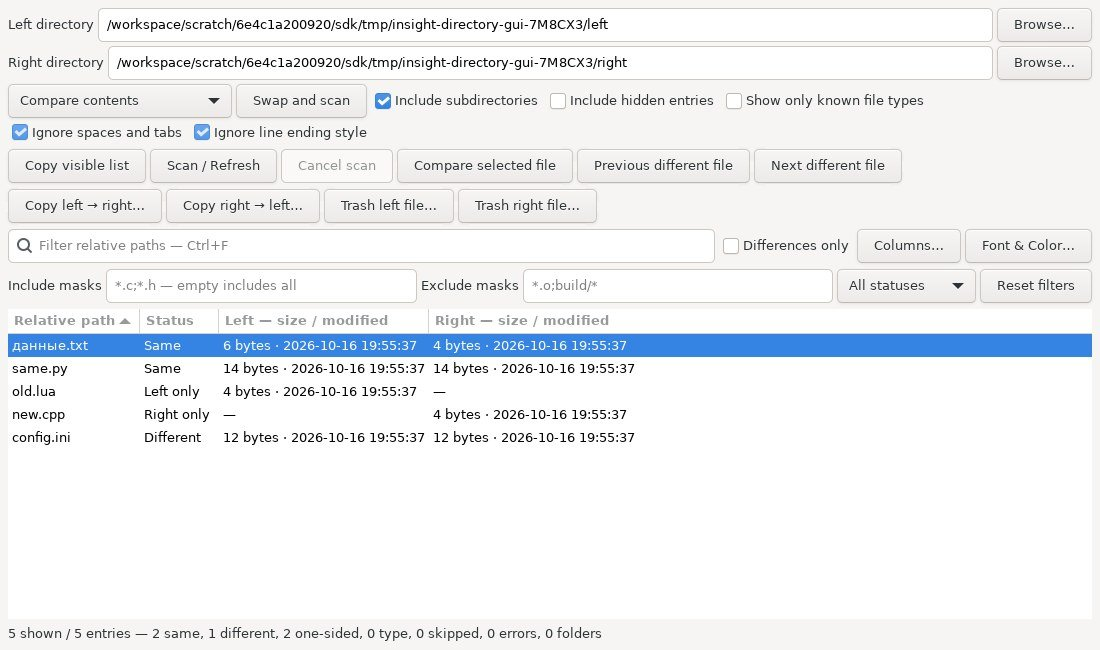
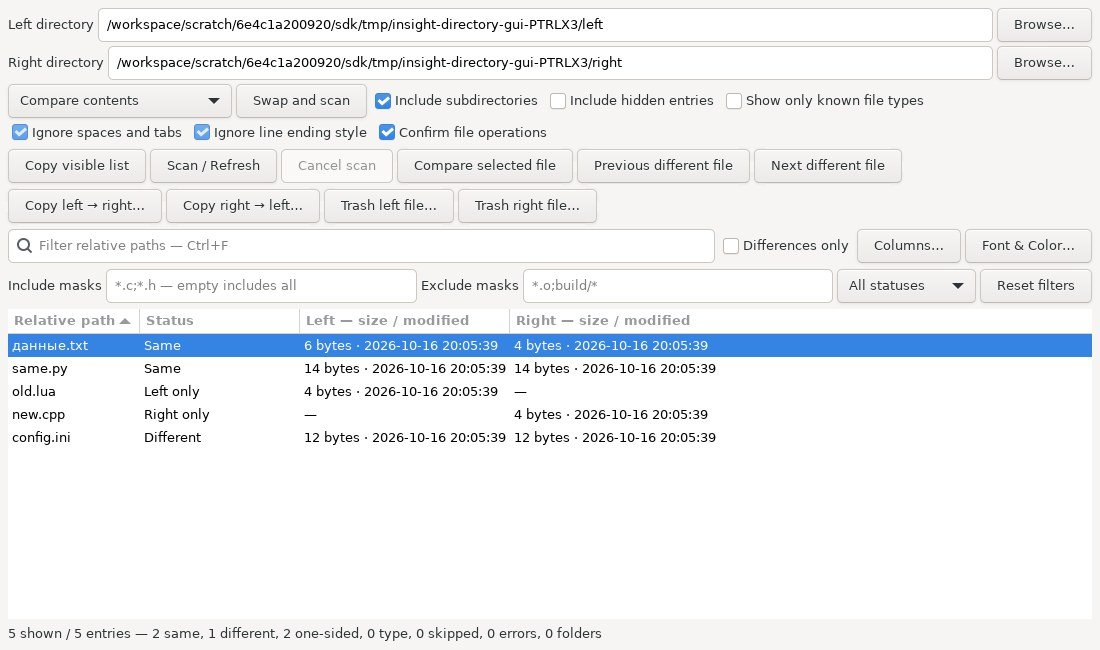
Remember directory file-operation confirmation policy

diff --git a/insight/tests/directory_compare_gui_test.c b/insight/tests/directory_compare_gui_test.c
@@ -60,7 +60,7 @@ int main(int argc,char **argv) {
  g_assert_cmpint(g_mkdir(left,0700),==,0);g_assert_cmpint(g_mkdir(right,0700),==,0);g_assert_cmpint(g_mkdir(empty,0700),==,0);
  put(left,"config.ini","port = 3000\n");put(right,"config.ini","port = 8080\n");put(left,"same.py","print('same')\n");put(right,"same.py","print('same')\n");put(left,"old.lua","old\n");put(right,"new.cpp","new\n");put(left,"данные.txt","я b\r\n");put(right,"данные.txt","яb\n");
  insight_directory_set_types_provider(known_types);insight_directory_set_open_guard(operation_path_open);
- Directory *d=directory_new(NULL);flush();start(NULL,d);g_assert_false(d->busy);g_assert_false(gtk_widget_get_sensitive(d->open));
+ Directory *d=directory_new(NULL);g_assert_true(gtk_toggle_button_get_active(GTK_TOGGLE_BUTTON(d->confirm)));flush();start(NULL,d);g_assert_false(d->busy);g_assert_false(gtk_widget_get_sensitive(d->open));
  gtk_entry_set_text(GTK_ENTRY(d->paths[0]),left);gtk_entry_set_text(GTK_ENTRY(d->paths[1]),right);start(NULL,d);wait_scan(d);
  g_assert_cmpuint(d->rows->len,==,5);g_assert_true(select_path(d,"config.ini"));g_assert_true(gtk_widget_get_sensitive(d->open));open_pair(NULL,d);g_assert_true(g_str_has_suffix(opened[0],"config.ini"));g_assert_cmpuint(opened_flags,==,0);
  gtk_entry_set_text(GTK_ENTRY(d->paths[0]),empty);open_pair(NULL,d);gchar *expected=g_build_filename(left,"config.ini",NULL);g_assert_cmpstr(opened[0],==,expected);g_free(expected);gtk_entry_set_text(GTK_ENTRY(d->paths[0]),left);
@@ -100,6 +100,8 @@ int main(int argc,char **argv) {
  start(NULL,d);wait_scan(d);g_assert_true(select_path(d,"copy.dat"));put(right,"copy.dat","external destination change");expected_destination=copy_right;run_action(d,0,GTK_RESPONSE_ACCEPT);g_assert_true(d->stale);g_assert_true(g_file_get_contents(copy_right,&bytes,NULL,NULL));g_assert_cmpstr(bytes,==,"external destination change");g_free(bytes);
  start(NULL,d);wait_scan(d);g_assert_true(select_path(d,"copy.dat"));expected_destination=NULL;run_action(d,INSIGHT_DIR_TRASH_L,GTK_RESPONSE_CANCEL);g_assert_false(d->stale);g_assert_true(g_file_test(copy_left,G_FILE_TEST_EXISTS));
  expected_destination=copy_right;block_after_confirmation=copy_left;run_action(d,0,GTK_RESPONSE_ACCEPT);g_assert_false(d->stale);g_assert_false(d->busy);blocked_path=NULL;block_after_confirmation=NULL;
+ gtk_toggle_button_set_active(GTK_TOGGLE_BUTTON(d->confirm),FALSE);file_action(d->actions[0],d);wait_scan(d);g_assert_true(d->stale);g_assert_true(g_file_get_contents(copy_right,&bytes,NULL,NULL));g_assert_cmpstr(bytes,==,"right bytes");g_free(bytes);
+ put(left,"quick-trash.dat","own trash fixture");start(NULL,d);wait_scan(d);g_assert_true(select_path(d,"quick-trash.dat"));file_action(d->actions[2],d);wait_scan(d);g_assert_true(d->stale);gchar *quick=g_build_filename(left,"quick-trash.dat",NULL);if(g_file_test(quick,G_FILE_TEST_EXISTS)) g_remove(quick);g_free(quick);gtk_toggle_button_set_active(GTK_TOGGLE_BUTTON(d->confirm),TRUE);start(NULL,d);wait_scan(d);g_assert_true(select_path(d,"copy.dat"));
  Directory *closing=directory_new(NULL);gtk_entry_set_text(GTK_ENTRY(closing->paths[0]),left);gtk_entry_set_text(GTK_ENTRY(closing->paths[1]),right);start(NULL,closing);wait_scan(closing);g_assert_true(select_path(closing,"copy.dat"));
  gboolean operation_closed=FALSE;g_object_weak_ref(G_OBJECT(closing->window),finalized,&operation_closed);g_idle_add(operation_response,GINT_TO_POINTER(GTK_RESPONSE_ACCEPT));file_action(closing->actions[0],closing);gtk_widget_destroy(closing->window);
  gint64 close_deadline=g_get_monotonic_time()+10*G_TIME_SPAN_SECOND;while(!operation_closed && g_get_monotonic_time()<close_deadline) { flush();g_usleep(1000); }g_assert_true(operation_closed);
@@ -126,16 +128,16 @@ int main(int argc,char **argv) {
  g_idle_add(appearance_response,GINT_TO_POINTER(GTK_RESPONSE_CANCEL));gtk_button_clicked(GTK_BUTTON(style_button));
  GKeyFile *settings=g_key_file_new();insight_directory_write(settings);g_assert_false(g_key_file_get_boolean(settings,style_group,"enabled",NULL));
  g_idle_add(appearance_response,GINT_TO_POINTER(GTK_RESPONSE_APPLY));gtk_button_clicked(GTK_BUTTON(style_button));insight_directory_write(settings);g_assert_true(g_key_file_get_boolean(settings,style_group,"enabled",NULL));
- gtk_entry_set_text(GTK_ENTRY(d->include),"*.ini;*.cpp");gtk_entry_set_text(GTK_ENTRY(d->exclude),"backup*");gtk_combo_box_set_active(GTK_COMBO_BOX(d->method),INSIGHT_DIR_SIZE_DATE);gtk_toggle_button_set_active(GTK_TOGGLE_BUTTON(d->known),TRUE);
+ gtk_entry_set_text(GTK_ENTRY(d->include),"*.ini;*.cpp");gtk_entry_set_text(GTK_ENTRY(d->exclude),"backup*");gtk_combo_box_set_active(GTK_COMBO_BOX(d->method),INSIGHT_DIR_SIZE_DATE);gtk_toggle_button_set_active(GTK_TOGGLE_BUTTON(d->known),TRUE);gtk_toggle_button_set_active(GTK_TOGGLE_BUTTON(d->confirm),FALSE);
  gtk_tree_view_column_set_visible(gtk_tree_view_get_column(GTK_TREE_VIEW(d->view),3),FALSE);insight_directory_write(settings);
  gboolean gone=FALSE;g_object_weak_ref(G_OBJECT(d->window),finalized,&gone);start(NULL,d);gtk_widget_destroy(d->window);
  gint64 until=g_get_monotonic_time()+10*G_TIME_SPAN_SECOND;while(!gone && g_get_monotonic_time()<until) { flush();g_usleep(1000); }g_assert_true(gone);
- insight_directory_read(settings);Directory *restored=directory_new(NULL);flush();g_assert_false(restored->busy);g_assert_null(restored->rows);
+ insight_directory_read(settings);Directory *restored=directory_new(NULL);flush();g_assert_false(restored->busy);g_assert_null(restored->rows);g_assert_false(gtk_toggle_button_get_active(GTK_TOGGLE_BUTTON(restored->confirm)));
  g_assert_cmpstr(gtk_entry_get_text(GTK_ENTRY(restored->include)),==,"*.ini;*.cpp");g_assert_cmpstr(gtk_entry_get_text(GTK_ENTRY(restored->paths[0])),==,empty);g_assert_cmpint(gtk_combo_box_get_active(GTK_COMBO_BOX(restored->method)),==,INSIGHT_DIR_SIZE_DATE);g_assert_true(gtk_toggle_button_get_active(GTK_TOGGLE_BUTTON(restored->known)));g_assert_false(gtk_tree_view_column_get_visible(gtk_tree_view_get_column(GTK_TREE_VIEW(restored->view),3)));
  GKeyFile *again=g_key_file_new();insight_directory_write(again);g_assert_true(g_key_file_get_boolean(again,style_group,"enabled",NULL));gchar *font=g_key_file_get_string(again,style_group,"font",NULL);g_assert_cmpstr(font,==,"Monospace 12");g_free(font);
  Directory *second=directory_new(NULL);gtk_entry_set_text(GTK_ENTRY(second->include),"*.py");g_assert_cmpstr(gtk_entry_get_text(GTK_ENTRY(restored->include)),==,"*.ini;*.cpp");insight_directory_write(again);gchar *mask=g_key_file_get_string(again,options_group,"include",NULL);g_assert_cmpstr(mask,==,"*.py");g_free(mask);gtk_widget_destroy(second->window);gtk_widget_destroy(restored->window);
- g_key_file_set_integer(settings,options_group,"method",999);g_key_file_set_integer(settings,options_group,"status",-8);g_key_file_set_value(settings,options_group,"recursive","broken");g_key_file_set_boolean(settings,options_group,"column-0",FALSE);g_key_file_set_integer(settings,options_group,"width",99999);g_key_file_set_string(settings,style_group,"font","Sans 999");
- insight_directory_read(settings);insight_directory_set_types_provider(NULL);restored=directory_new(NULL);g_assert_false(restored->busy);g_assert_cmpint(gtk_combo_box_get_active(GTK_COMBO_BOX(restored->method)),==,0);g_assert_cmpint(gtk_combo_box_get_active(GTK_COMBO_BOX(restored->status_filter)),==,0);g_assert_true(gtk_toggle_button_get_active(GTK_TOGGLE_BUTTON(restored->recursive)));g_assert_false(gtk_toggle_button_get_active(GTK_TOGGLE_BUTTON(restored->known)));g_assert_true(gtk_tree_view_column_get_visible(gtk_tree_view_get_column(GTK_TREE_VIEW(restored->view),0)));gtk_widget_destroy(restored->window);
+ g_key_file_set_integer(settings,options_group,"method",999);g_key_file_set_integer(settings,options_group,"status",-8);g_key_file_set_value(settings,options_group,"recursive","broken");g_key_file_set_value(settings,options_group,"confirm","broken");g_key_file_set_boolean(settings,options_group,"column-0",FALSE);g_key_file_set_integer(settings,options_group,"width",99999);g_key_file_set_string(settings,style_group,"font","Sans 999");
+ insight_directory_read(settings);insight_directory_set_types_provider(NULL);restored=directory_new(NULL);g_assert_true(gtk_toggle_button_get_active(GTK_TOGGLE_BUTTON(restored->confirm)));g_assert_false(restored->busy);g_assert_cmpint(gtk_combo_box_get_active(GTK_COMBO_BOX(restored->method)),==,0);g_assert_cmpint(gtk_combo_box_get_active(GTK_COMBO_BOX(restored->status_filter)),==,0);g_assert_true(gtk_toggle_button_get_active(GTK_TOGGLE_BUTTON(restored->recursive)));g_assert_false(gtk_toggle_button_get_active(GTK_TOGGLE_BUTTON(restored->known)));g_assert_true(gtk_tree_view_column_get_visible(gtk_tree_view_get_column(GTK_TREE_VIEW(restored->view),0)));gtk_widget_destroy(restored->window);
  g_key_file_unref(settings);g_key_file_unref(again);g_clear_pointer(&saved_options,g_key_file_unref);g_assert_null(open_windows);
  const gchar *names[]={"config.ini","same.py","old.lua","new.cpp","данные.txt",NULL};for(guint i=0;names[i];i++) for(guint side=0;side<2;side++) { gchar *path=g_build_filename(side ? right : left,names[i],NULL);if(g_file_test(path,G_FILE_TEST_EXISTS)) g_remove(path);g_free(path); }
  g_rmdir(left);g_rmdir(right);g_rmdir(empty);g_rmdir(root);g_free(left);g_free(right);g_free(empty);g_free(root);g_free(opened[0]);g_free(opened[1]);

diff --git a/src/insight-directory.c b/src/insight-directory.c
@@ -17,7 +17,7 @@ enum { DC_ID,DC_PATH,DC_STATUS_TEXT,DC_LEFT,DC_RIGHT,DC_DETAIL,DC_STATUS,DC_PAIR
 typedef struct {
  GtkWidget *window,*paths[2],*controls,*scan,*cancel_button,*view,*filter_entry,*different,*status,*open,*previous,*next;
  GtkWidget *actions[4];guint64 epoch;gboolean stale,operating;
- GtkWidget *known,*method,*recursive,*hidden,*space,*eol,*include,*exclude,*status_filter;
+ GtkWidget *confirm,*known,*method,*recursive,*hidden,*space,*eol,*include,*exclude,*status_filter;
  GPtrArray *include_patterns,*exclude_patterns;
  GPtrArray *rows,*pending;GtkListStore *store,*building;GtkTreeModel *filtered;
  gchar *roots[2],*pending_roots[2];guint flags,pending_flags,publication,at;GCancellable *cancel;gboolean busy;
@@ -37,7 +37,7 @@ static void options_write(Directory *d,GKeyFile *key) {
  const gchar *names[]={"left","right","search","include","exclude"};GtkWidget *entries[]={d->paths[0],d->paths[1],d->filter_entry,d->include,d->exclude};
  g_key_file_set_integer(key,options_group,"version",1);
  for(guint i=0;i<G_N_ELEMENTS(names);i++) g_key_file_set_string(key,options_group,names[i],gtk_entry_get_text(GTK_ENTRY(entries[i])));
- const gchar *checks[]={"recursive","hidden","space","eol","known","different"};GtkWidget *toggles[]={d->recursive,d->hidden,d->space,d->eol,d->known,d->different};
+ const gchar *checks[]={"recursive","hidden","space","eol","known","different","confirm"};GtkWidget *toggles[]={d->recursive,d->hidden,d->space,d->eol,d->known,d->different,d->confirm};
  for(guint i=0;i<G_N_ELEMENTS(checks);i++) g_key_file_set_boolean(key,options_group,checks[i],gtk_toggle_button_get_active(GTK_TOGGLE_BUTTON(toggles[i])));
  g_key_file_set_integer(key,options_group,"method",gtk_combo_box_get_active(GTK_COMBO_BOX(d->method)));g_key_file_set_integer(key,options_group,"status",gtk_combo_box_get_active(GTK_COMBO_BOX(d->status_filter)));
  gint width,height,column;GtkSortType order;gtk_window_get_size(GTK_WINDOW(d->window),&width,&height);g_key_file_set_integer(key,options_group,"width",CLAMP(width,640,4000));g_key_file_set_integer(key,options_group,"height",CLAMP(height,400,2400));
@@ -53,7 +53,7 @@ static void options_read(Directory *d,GKeyFile *key) {
  if(!key || g_key_file_get_integer(key,options_group,"version",NULL)!=1) return;
  const gchar *names[]={"left","right","search","include","exclude"};GtkWidget *entries[]={d->paths[0],d->paths[1],d->filter_entry,d->include,d->exclude};
  for(guint i=0;i<G_N_ELEMENTS(names);i++) { gchar *text=g_key_file_get_string(key,options_group,names[i],NULL);if(text && strlen(text)<=(i<2 ? 16384u : 2048u) && g_utf8_validate(text,-1,NULL)) gtk_entry_set_text(GTK_ENTRY(entries[i]),text);g_free(text); }
- const gchar *checks[]={"recursive","hidden","space","eol","known","different"};GtkWidget *toggles[]={d->recursive,d->hidden,d->space,d->eol,d->known,d->different};
+ const gchar *checks[]={"recursive","hidden","space","eol","known","different","confirm"};GtkWidget *toggles[]={d->recursive,d->hidden,d->space,d->eol,d->known,d->different,d->confirm};
  for(guint i=0;i<G_N_ELEMENTS(checks);i++) { GError *error=NULL;gboolean value=g_key_file_get_boolean(key,options_group,checks[i],&error);if(!error && (i!=4 || types_provider)) gtk_toggle_button_set_active(GTK_TOGGLE_BUTTON(toggles[i]),value);g_clear_error(&error); }
  gint value;if(option_integer(key,"method",0,2,&value)) gtk_combo_box_set_active(GTK_COMBO_BOX(d->method),value);if(option_integer(key,"status",0,8,&value)) gtk_combo_box_set_active(GTK_COMBO_BOX(d->status_filter),value);
  gint width=1100,height=650;option_integer(key,"width",640,4000,&width);option_integer(key,"height",400,2400,&height);gtk_window_set_default_size(GTK_WINDOW(d->window),width,height);
@@ -330,6 +330,8 @@ static void file_action(GtkWidget *widget,gpointer data) {
  guint side=action%2;gboolean trash=action>=INSIGHT_DIR_TRASH_L;gchar *source=g_build_filename(job->roots[side],job->relative,NULL),*destination=trash ? NULL : g_build_filename(job->roots[1-side],job->relative,NULL);
  if(open_guard(source) || (destination && open_guard(destination))) { gtk_label_set_text(GTK_LABEL(d->status),insight_tr("Close documents using either operation path before changing files."));file_job_free(job);g_free(source);g_free(destination);return; }
  GtkWidget *window=d->window;g_object_ref(window);
+ gint response=GTK_RESPONSE_ACCEPT;
+ if(gtk_toggle_button_get_active(GTK_TOGGLE_BUTTON(d->confirm))) {
  GtkWidget *dialog=gtk_dialog_new_with_buttons(trash ? "Move comparison file to Trash" : "Copy comparison file",GTK_WINDOW(window),GTK_DIALOG_MODAL|GTK_DIALOG_DESTROY_WITH_PARENT,"Cancel",GTK_RESPONSE_CANCEL,trash ? "Move to Trash" : "Copy file",GTK_RESPONSE_ACCEPT,NULL);gtk_widget_set_name(dialog,"insight-directory-operation-dialog");
  GtkWidget *content=gtk_dialog_get_content_area(GTK_DIALOG(dialog));gtk_container_set_border_width(GTK_CONTAINER(content),10);
  gchar *a=g_filename_display_name(source),*b=destination ? g_filename_display_name(destination) : NULL;
@@ -338,7 +340,8 @@ static void file_action(GtkWidget *widget,gpointer data) {
  gtk_box_pack_start(GTK_BOX(content),gtk_label_new(insight_tr("Source file")),FALSE,FALSE,2);
  GtkWidget *from=gtk_label_new(a);gtk_label_set_selectable(GTK_LABEL(from),TRUE);gtk_label_set_line_wrap(GTK_LABEL(from),TRUE);gtk_label_set_max_width_chars(GTK_LABEL(from),90);gtk_widget_set_name(from,"insight-directory-operation-source");gtk_box_pack_start(GTK_BOX(content),from,FALSE,FALSE,4);
  if(b) { gtk_box_pack_start(GTK_BOX(content),gtk_label_new(insight_tr("Destination file")),FALSE,FALSE,2);GtkWidget *to=gtk_label_new(b);gtk_label_set_selectable(GTK_LABEL(to),TRUE);gtk_label_set_line_wrap(GTK_LABEL(to),TRUE);gtk_label_set_max_width_chars(GTK_LABEL(to),90);gtk_widget_set_name(to,"insight-directory-operation-destination");gtk_box_pack_start(GTK_BOX(content),to,FALSE,FALSE,4); }
- gtk_dialog_set_default_response(GTK_DIALOG(dialog),GTK_RESPONSE_CANCEL);insight_i18n_apply(dialog);gtk_widget_show_all(dialog);gint response=gtk_dialog_run(GTK_DIALOG(dialog));gtk_widget_destroy(dialog);g_free(a);g_free(b);
+ gtk_dialog_set_default_response(GTK_DIALOG(dialog),GTK_RESPONSE_CANCEL);insight_i18n_apply(dialog);gtk_widget_show_all(dialog);response=gtk_dialog_run(GTK_DIALOG(dialog));gtk_widget_destroy(dialog);g_free(a);g_free(b);
+ }
  d=g_object_get_data(G_OBJECT(window),"insight-directory-state");
  if(response==GTK_RESPONSE_ACCEPT && d) {
   if(d->busy || d->stale || d->epoch!=job->epoch) gtk_label_set_text(GTK_LABEL(d->status),insight_tr("Comparison changed; reopen the file operation."));
@@ -407,6 +410,7 @@ static Directory *directory_new(GtkWidget *parent) {
  d->recursive=check(options,"Include subdirectories",TRUE);d->hidden=check(options,"Include hidden entries",FALSE);
  d->known=check(options,"Show only known file types",FALSE);gtk_widget_set_name(d->known,"insight-directory-known");gtk_widget_set_sensitive(d->known,types_provider!=NULL);
  GtkWidget *text_options=gtk_box_new(GTK_ORIENTATION_HORIZONTAL,4);gtk_box_pack_start(GTK_BOX(d->controls),text_options,FALSE,FALSE,0);d->space=check(text_options,"Ignore spaces and tabs",FALSE);d->eol=check(text_options,"Ignore line ending style",FALSE);
+ d->confirm=check(text_options,"Confirm file operations",TRUE);gtk_widget_set_name(d->confirm,"insight-directory-confirm");gtk_widget_set_tooltip_text(d->confirm,"Confirm before copying or moving files to Trash.");
  GtkWidget *bar=gtk_box_new(GTK_ORIENTATION_HORIZONTAL,4);gtk_box_pack_start(GTK_BOX(box),bar,FALSE,FALSE,0);
  button(bar,"Copy visible list",G_CALLBACK(copy_list),d);
  d->scan=button(bar,"Scan / Refresh",G_CALLBACK(start),d);gtk_widget_set_name(d->scan,"insight-directory-scan");d->cancel_button=button(bar,"Cancel scan",G_CALLBACK(cancel_scan),d);d->open=button(bar,"Compare selected file",G_CALLBACK(open_pair),d);gtk_widget_set_name(d->open,"insight-directory-open");d->previous=button(bar,"Previous different file",G_CALLBACK(step),d);d->next=button(bar,"Next different file",G_CALLBACK(step),d);

diff --git a/insight/tests/directory_compare_native_gui_test.c b/insight/tests/directory_compare_native_gui_test.c
@@ -49,11 +49,11 @@ static gboolean step(gpointer data) {
   if(!gtk_widget_get_sensitive(named(directory,"insight-directory-scan"))) return G_SOURCE_CONTINUE;
   GtkWidget *view=named(directory,"insight-directory-files");GtkTreeModel *model=gtk_tree_view_get_model(GTK_TREE_VIEW(view));GtkTreeIter iter;gboolean found=FALSE;gint name_column=gtk_tree_view_column_get_sort_column_id(gtk_tree_view_get_column(GTK_TREE_VIEW(view),0));
   for(gboolean valid=gtk_tree_model_get_iter_first(model,&iter);valid;valid=gtk_tree_model_iter_next(model,&iter)) { gchar *name=NULL;gtk_tree_model_get(model,&iter,name_column,&name,-1);found=!strcmp(name,"transfer.c");g_free(name);if(found) { GtkTreePath *path=gtk_tree_model_get_path(model,&iter);gtk_tree_view_set_cursor(GTK_TREE_VIEW(view),path,NULL,FALSE);gtk_tree_path_free(path);break; } }
-  g_assert_true(found);g_idle_add(respond_file_dialog,GINT_TO_POINTER(GTK_RESPONSE_ACCEPT));gtk_button_clicked(GTK_BUTTON(named(directory,"insight-directory-operation-0")));phase=4;return G_SOURCE_CONTINUE;
+  g_assert_true(found);gtk_toggle_button_set_active(GTK_TOGGLE_BUTTON(named(directory,"insight-directory-confirm")),FALSE);gtk_button_clicked(GTK_BUTTON(named(directory,"insight-directory-operation-0")));phase=4;return G_SOURCE_CONTINUE;
  }
  if(!gtk_widget_get_sensitive(named(directory,"insight-directory-scan"))) return G_SOURCE_CONTINUE;
  gchar *copy=g_build_filename(right,"transfer.c",NULL),*bytes=NULL;g_assert_true(g_file_get_contents(copy,&bytes,NULL,NULL));g_assert_cmpstr(bytes,==,"int transfer;\n");g_free(bytes);g_free(copy);g_assert_false(gtk_widget_get_sensitive(named(directory,"insight-directory-operation-0")));gtk_widget_destroy(directory);
- gtk_menu_item_activate(GTK_MENU_ITEM(named(host,"insight-directory-menu")));directory=window_named("insight-directory-window");g_assert_nonnull(directory);g_assert_true(gtk_toggle_button_get_active(GTK_TOGGLE_BUTTON(named(directory,"insight-directory-known"))));g_assert_cmpstr(gtk_entry_get_text(GTK_ENTRY(named(directory,"insight-directory-left"))),==,left);g_assert_true(gtk_widget_get_sensitive(named(directory,"insight-directory-scan")));g_assert_cmpint(gtk_tree_model_iter_n_children(gtk_tree_view_get_model(GTK_TREE_VIEW(named(directory,"insight-directory-files"))),NULL),==,0);
+ gtk_menu_item_activate(GTK_MENU_ITEM(named(host,"insight-directory-menu")));directory=window_named("insight-directory-window");g_assert_nonnull(directory);g_assert_false(gtk_toggle_button_get_active(GTK_TOGGLE_BUTTON(named(directory,"insight-directory-confirm"))));g_assert_true(gtk_toggle_button_get_active(GTK_TOGGLE_BUTTON(named(directory,"insight-directory-known"))));g_assert_cmpstr(gtk_entry_get_text(GTK_ENTRY(named(directory,"insight-directory-left"))),==,left);g_assert_true(gtk_widget_get_sensitive(named(directory,"insight-directory-scan")));g_assert_cmpint(gtk_tree_model_iter_n_children(gtk_tree_view_get_model(GTK_TREE_VIEW(named(directory,"insight-directory-files"))),NULL),==,0);
  gtk_menu_item_activate(GTK_MENU_ITEM(ui_lookup_widget(host,"menu_quit1")));return G_SOURCE_REMOVE;
 }
 static gboolean timeout(gpointer data) { (void)data;g_error("Directory Compare native GUI timeout");return G_SOURCE_REMOVE; }
@@ -66,5 +66,5 @@ int main(void) {
  gchar *unknown=g_build_filename(left,"payload.insight-unknown-binary-77",NULL);g_assert_true(g_file_set_contents(unknown,"a\0b",3,NULL));g_free(unknown);
  gchar *args[]={"directory-native","--new-instance","--no-session","--config",profile,source,NULL};g_timeout_add(250,step,NULL);g_timeout_add_seconds(30,timeout,NULL);g_log_set_always_fatal(G_LOG_FATAL_MASK|G_LOG_LEVEL_CRITICAL);
  gint result=main_lib(6,args);
- GKeyFile *saved=g_key_file_new();gchar *prefs=g_build_filename(profile,"insight","workbench.conf",NULL);g_assert_true(g_key_file_load_from_file(saved,prefs,G_KEY_FILE_NONE,NULL));g_assert_cmpint(g_key_file_get_integer(saved,"directory-compare","version",NULL),==,1);g_assert_true(g_key_file_get_boolean(saved,"directory-compare","known",NULL));g_free(prefs);g_key_file_unref(saved);g_free(other);g_free(config);g_free(source);g_free(left);g_free(right);g_free(profile);g_free(root);return result;
+ GKeyFile *saved=g_key_file_new();gchar *prefs=g_build_filename(profile,"insight","workbench.conf",NULL);g_assert_true(g_key_file_load_from_file(saved,prefs,G_KEY_FILE_NONE,NULL));g_assert_cmpint(g_key_file_get_integer(saved,"directory-compare","version",NULL),==,1);g_assert_true(g_key_file_get_boolean(saved,"directory-compare","known",NULL));g_assert_false(g_key_file_get_boolean(saved,"directory-compare","confirm",NULL));g_free(prefs);g_key_file_unref(saved);g_free(other);g_free(config);g_free(source);g_free(left);g_free(right);g_free(profile);g_free(root);return result;
 }

diff --git a/insight/docs/en/directory-compare.md b/insight/docs/en/directory-compare.md
@@ -131,7 +131,7 @@ The appearance dialog below is captured from the production GTK widgets in the i
 
 ### Copy and Trash from the completed snapshot
 
-Select a regular-file row and use **Copy left → right…**, **Copy right → left…**, **Trash left file…** or **Trash right file…** in the toolbar or context menu. A copy can create a missing file or replace an existing regular file. The confirmation shows the source and destination taken from the completed snapshot, even if the directory entry fields have been edited. Cancel is the default. Cancelling this dialog changes nothing.
+Select a regular-file row and use **Copy left → right…**, **Copy right → left…**, **Trash left file…** or **Trash right file…** in the toolbar or context menu. A copy can create a missing file or replace an existing regular file. With **Confirm file operations** enabled (the default), confirmation shows the source and destination taken from the completed snapshot, even if the directory entry fields have been edited. Cancel is the default. Cancelling this dialog changes nothing.
 
 Both operation paths must be closed in the editor, including unmodified buffers. The guard is checked again after confirmation. During the worker task this window is modal, the other actions are disabled, and **Cancel file operation** requests cancellation. Closing the window cancels its task. Cancellation cannot undo an atomic replacement that has already completed. After every attempt, including a failure or cancellation, the old list is marked stale and further file operations are disabled until a successful Scan / Refresh. Existing comparison rows are never presented as an updated filesystem result.
 
@@ -144,3 +144,5 @@ The confirmation below is captured from the real production widgets in the isola
 ![Confirm a directory file operation](../media/directory-operation.jpg)
 
 A successful refresh keeps the currently selected relative path and scrolls it into view, including when sort order changes. Selection is restored only if the row still exists and passes the current filters. A removed or filtered-out row is not replaced with an unrelated selection; cancelled and failed scans preserve the old model and selection.
+
+**Confirm file operations** controls both copy and Trash prompts and is remembered with window options. Turning it off makes the toolbar/context-menu action start immediately; editor-buffer guards, identity/etag checks, cancellation and the mandatory refresh after an attempt still apply. Invalid saved confirmation values restore the enabled default.

diff --git a/insight/docs/directory-compare.md b/insight/docs/directory-compare.md
@@ -131,7 +131,7 @@ The appearance dialog below is captured from the production GTK widgets in the i
 
 ### Copy and Trash from the completed snapshot
 
-Select a regular-file row and use **Copy left → right…**, **Copy right → left…**, **Trash left file…** or **Trash right file…** in the toolbar or context menu. A copy can create a missing file or replace an existing regular file. The confirmation shows the source and destination taken from the completed snapshot, even if the directory entry fields have been edited. Cancel is the default. Cancelling this dialog changes nothing.
+Select a regular-file row and use **Copy left → right…**, **Copy right → left…**, **Trash left file…** or **Trash right file…** in the toolbar or context menu. A copy can create a missing file or replace an existing regular file. With **Confirm file operations** enabled (the default), confirmation shows the source and destination taken from the completed snapshot, even if the directory entry fields have been edited. Cancel is the default. Cancelling this dialog changes nothing.
 
 Both operation paths must be closed in the editor, including unmodified buffers. The guard is checked again after confirmation. During the worker task this window is modal, the other actions are disabled, and **Cancel file operation** requests cancellation. Closing the window cancels its task. Cancellation cannot undo an atomic replacement that has already completed. After every attempt, including a failure or cancellation, the old list is marked stale and further file operations are disabled until a successful Scan / Refresh. Existing comparison rows are never presented as an updated filesystem result.
 
@@ -144,3 +144,5 @@ The confirmation below is captured from the real production widgets in the isola
 ![Confirm a directory file operation](media/directory-operation.jpg)
 
 A successful refresh keeps the currently selected relative path and scrolls it into view, including when sort order changes. Selection is restored only if the row still exists and passes the current filters. A removed or filtered-out row is not replaced with an unrelated selection; cancelled and failed scans preserve the old model and selection.
+
+**Confirm file operations** controls both copy and Trash prompts and is remembered with window options. Turning it off makes the toolbar/context-menu action start immediately; editor-buffer guards, identity/etag checks, cancellation and the mandatory refresh after an attempt still apply. Invalid saved confirmation values restore the enabled default.

diff --git a/insight/docs/source-insight-parity.md b/insight/docs/source-insight-parity.md
@@ -414,3 +414,7 @@ Linux checks exercise known/empty/invalid definitions, recursive filtering, real
 Directory Compare now copies regular-file contents left-to-right/right-to-left and sends either side to system trash. Confirmations use completed snapshot paths; editor buffers using either path are guarded before and after confirmation. Worker tasks are cancellable, hold the window modal, and invalidate the snapshot after every attempt. A successful refresh is mandatory before further writes. Exact binary copies are bounded to 64 MiB; existing targets use conditional etag replacement, missing targets use a sibling temporary file and no-overwrite move. Parent links, same-file copies, stale identities and nonregular files are rejected. No recursive writes, parent creation, metadata preservation, automatic backups, mutation undo or permanent-delete fallback are implemented. Portable GIO checks do not hold a filesystem lock.
 
 Linux tests cover exact copy in both directions, create/replace conflicts, stale source/target, cancellation, size bounds, traversal and parent symlinks, trash success or refusal without deletion, real confirmations, edited input fields, reopened buffers, modal lifetime and closing an active window. The native editor fixture additionally guards both paths of an open document, cancels trash and copies a separate file through the actual Tools menu window. RU/EN guides include a new production-widget confirmation JPEG; both build systems install it.
+
+### Directory refresh selection and confirmation policy (2026-10-16)
+
+A successful refresh restores the exact selected native relative path only when it remains visible in the new sorted/filtered snapshot. Removed rows do not select an unrelated file. Confirm file operations is enabled by default and persisted per window; disabling it starts copy/Trash immediately while retaining editor guards, backend checks, modal worker cancellation and the fresh-snapshot requirement. Invalid saved policy values keep confirmation enabled. Isolated GTK tests cover both policies, selection preservation/removal and persistence; native editor coverage exercises immediate copy and its saved policy.
